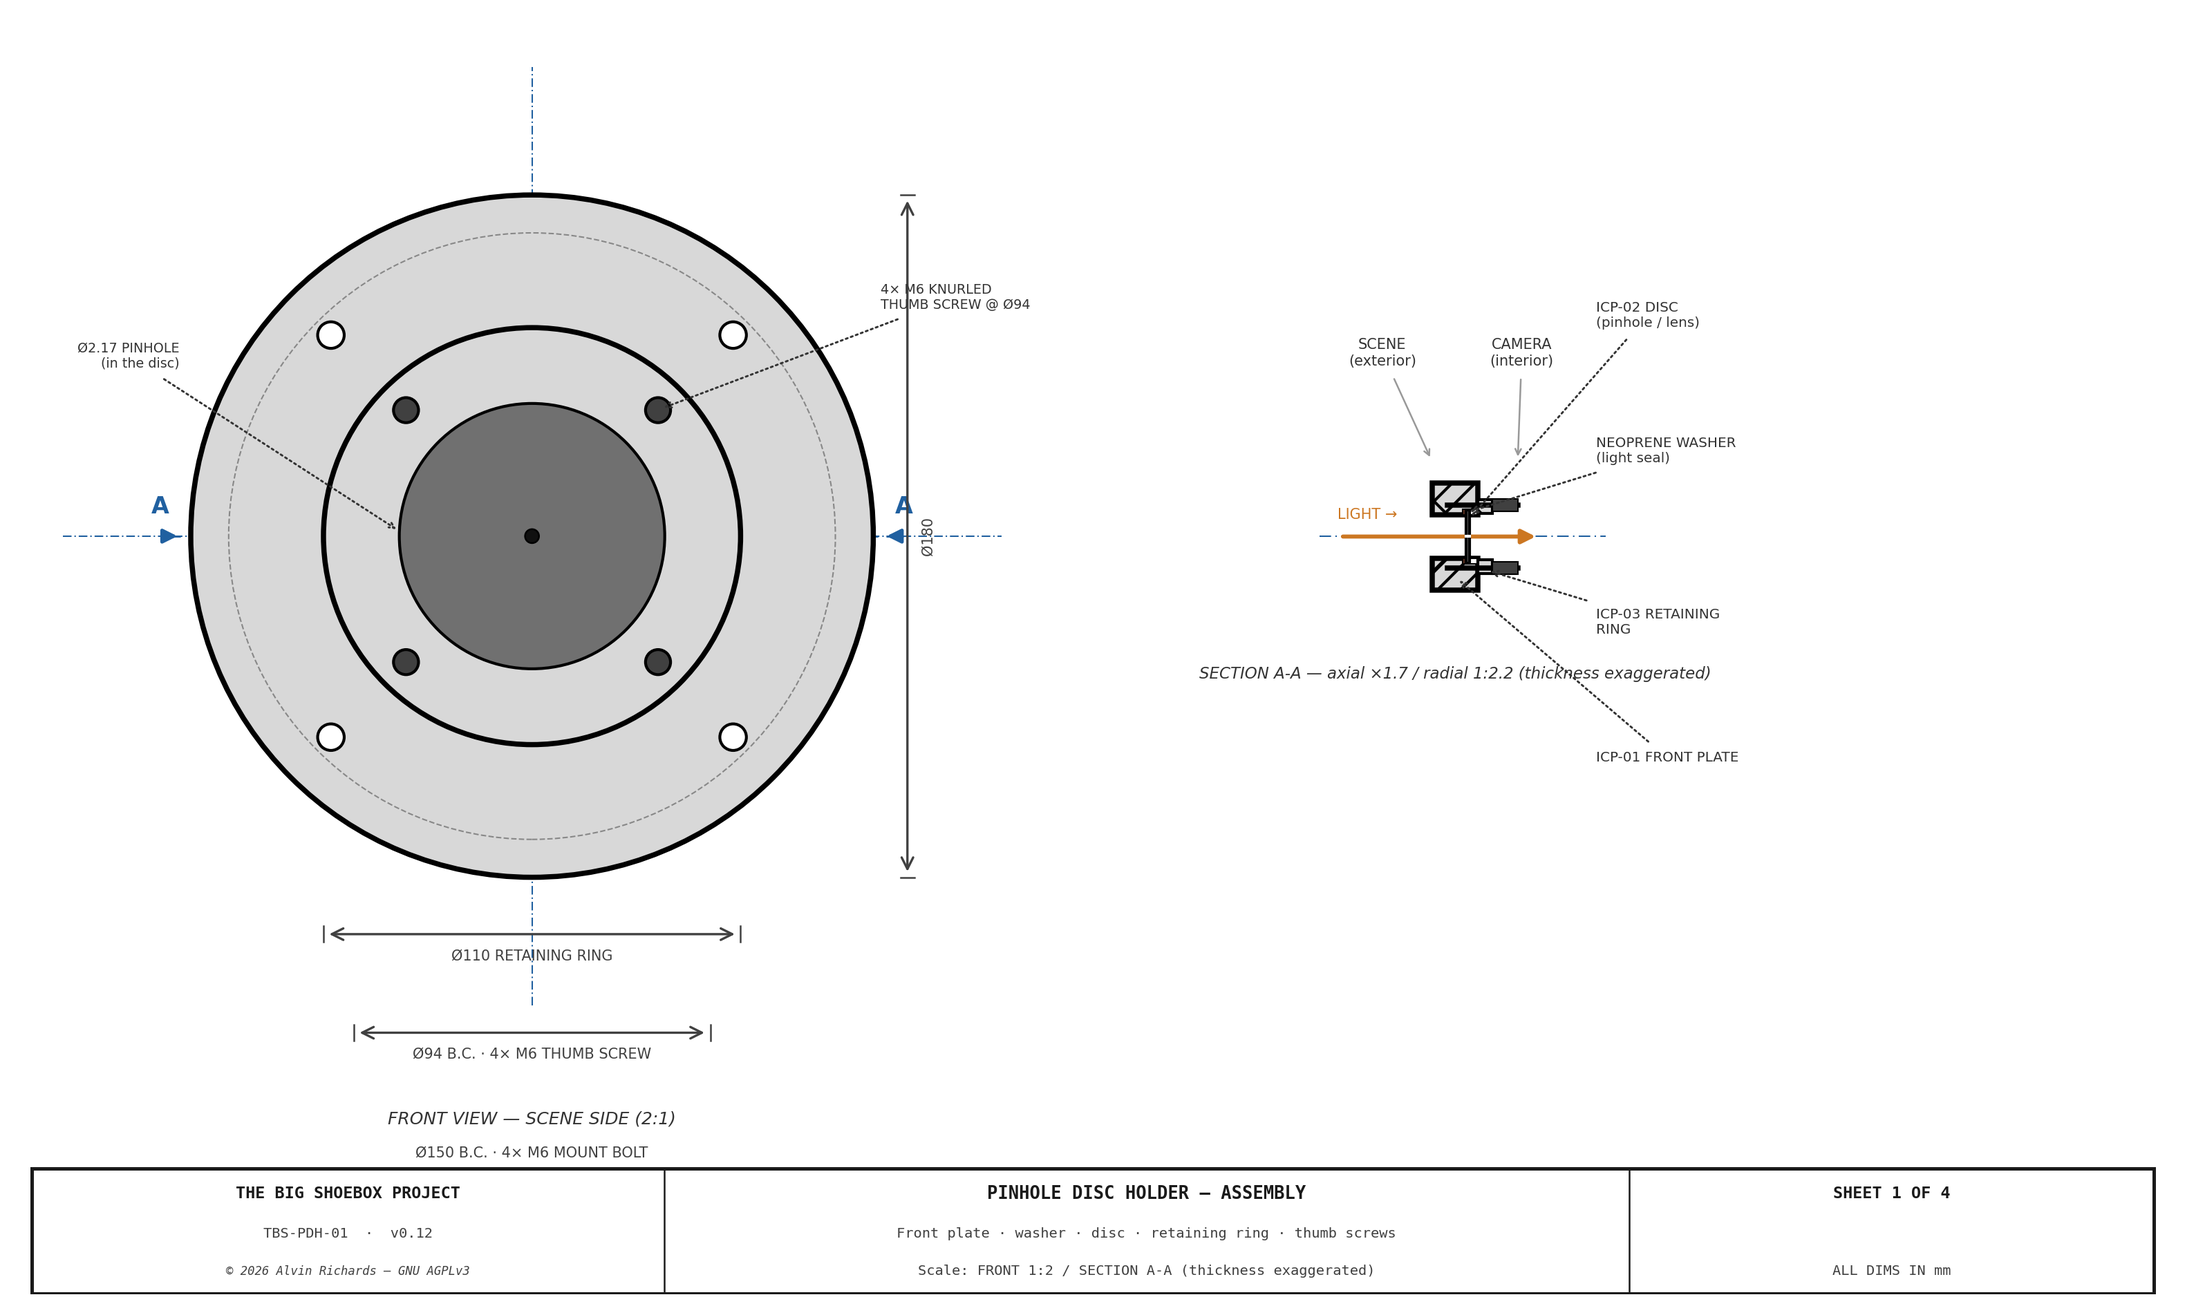
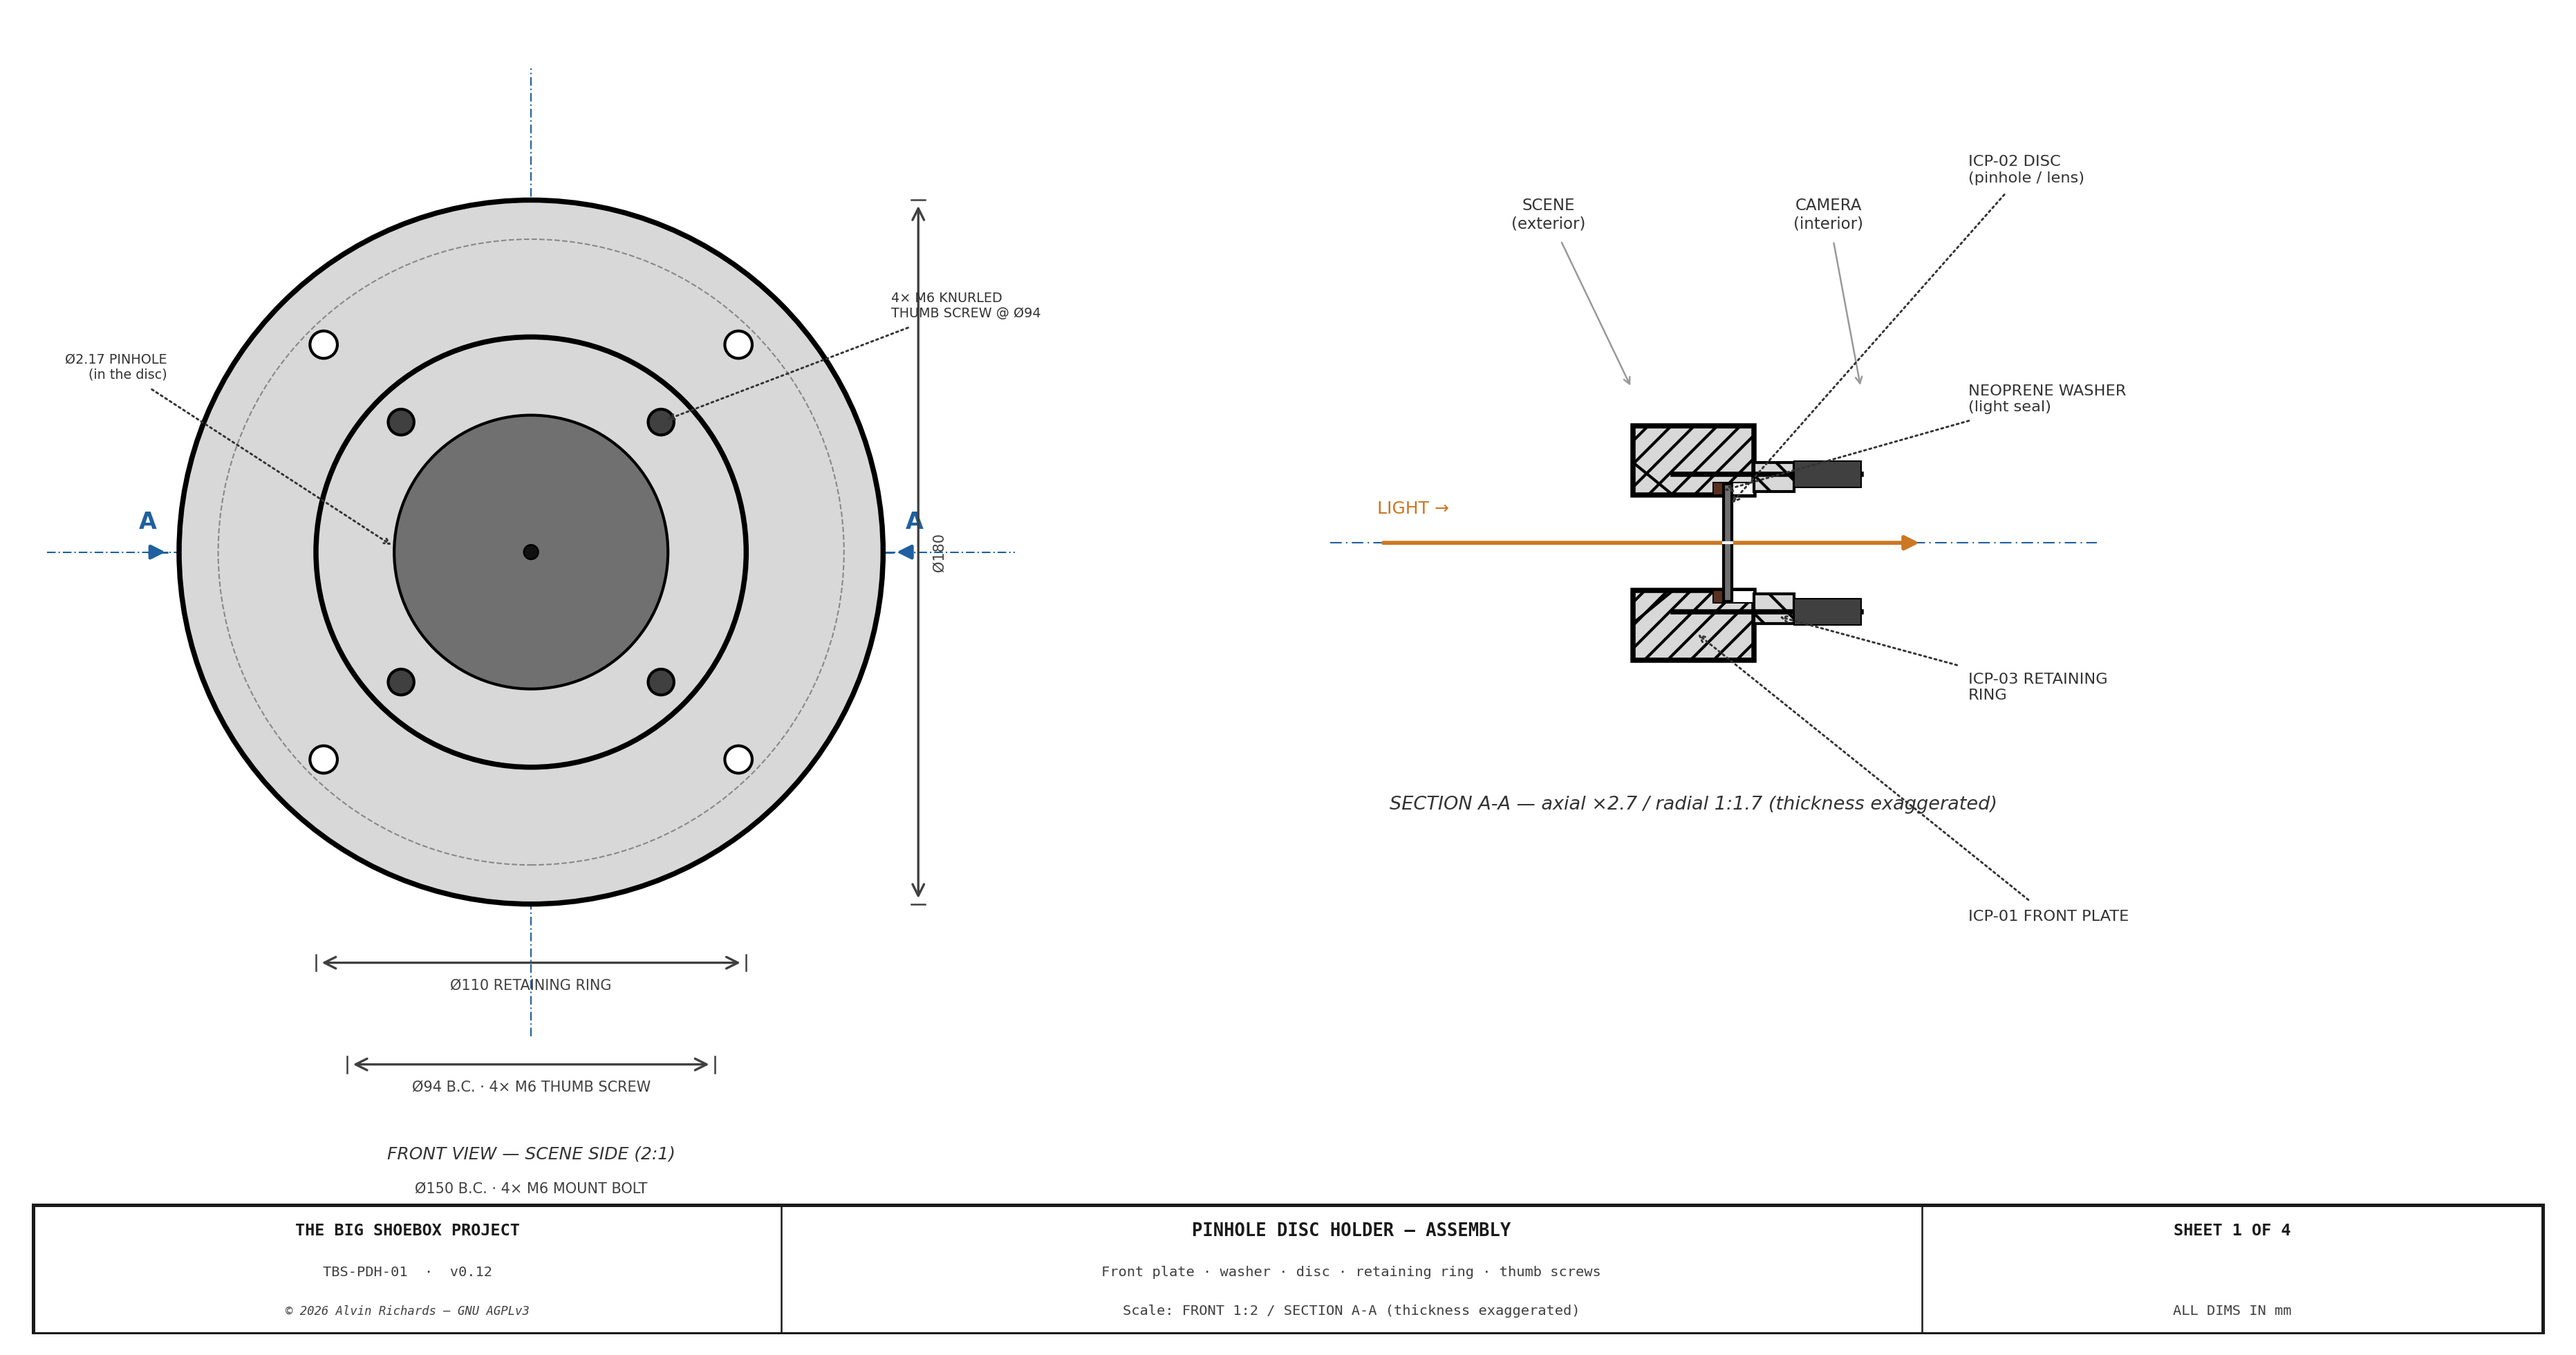
Disc holder Sheet 1: enlarge Section A-A for legibility
Widen the section panel (gridspec 1:1.35), raise the section scales
(axial x2.7 / radial 1:1.7) and bump callout/label fonts so the
plate/washer/disc/ring stack and thumb screws read clearly.

diff --git a/src/generators/generate_pinhole_disc_holder.py b/src/generators/generate_pinhole_disc_holder.py
@@ -62,7 +62,7 @@ def _thumb_screw_positions(cx, cy, pcd, s):
 # SHEET 1 — Assembly: front view + Section A-A
 # ══════════════════════════════════════════════════════════════════════════════
 def draw_sheet1():
-    fig, (axf, axs) = plt.subplots(1, 2, figsize=(11, 6.4))
+    fig, (axf, axs) = plt.subplots(1, 2, figsize=(13, 6.6), gridspec_kw={'width_ratios': [1, 1.35]})
     for ax in (axf, axs):
         ax.set_aspect('equal'); ax.axis('off')
     fig.patch.set_facecolor('white')
@@ -111,11 +111,11 @@ def draw_sheet1():
 
     # ── Section A-A (broken-out central stack) — optical axis horizontal ──
     # Thin plate: axial (thickness) scale EXAGGERATED vs radial so the disc stack reads.
-    def sx(mm): return mm * 1.7          # horizontal / axial (thickness) — exaggerated
-    def sy(mm): return mm / 2.2          # vertical / radial — compressed
-    sw, sh = 720, 720
+    def sx(mm): return mm * 2.7          # horizontal / axial (thickness) — exaggerated
+    def sy(mm): return mm / 1.7          # vertical / radial — compressed
+    sw, sh = 520, 440
     axs.set_xlim(0, sw); axs.set_ylim(0, sh)
-    ax0 = 210                            # scene face x
+    ax0 = 170                            # scene face x
     axc = ax0 + sx(PDH_PLATE_T)          # camera face x
     ry = sh / 2 + 10                     # optical-axis line y
     rad = sy(80)                         # show ±80mm of radius (broken-out; plate is Ø180)
@@ -154,25 +154,25 @@ def draw_sheet1():
     # optical-axis centre line + light-path arrow
     axs.plot([ax0 - sx(45), axc + sx(PDH_RING_T) + sx(45)], [ry, ry], color=C_CUT_BLUE, lw=LW_THIN, ls=(0, (8, 3, 1, 3)), zorder=2)
     axs.annotate('', xy=(disc_x + sx(30), ry), xytext=(ax0 - sx(38), ry), arrowprops=dict(arrowstyle='-|>', color='#CC7722', lw=1.4))
-    axs.text(ax0 - sx(38), ry + 12, 'LIGHT →', fontsize=5, color='#CC7722', ha='left')
+    axs.text(ax0 - sx(38), ry + 12, 'LIGHT →', fontsize=6, color='#CC7722', ha='left')
 
     axs.annotate('SCENE\n(exterior)', xy=(ax0, ry + rad + 14), xytext=(ax0 - 34, ry + rad + 78),
-                 fontsize=5, color='#333', ha='center', va='bottom', arrowprops=dict(arrowstyle='->', color='#999', lw=0.6))
+                 fontsize=5.5, color='#333', ha='center', va='bottom', arrowprops=dict(arrowstyle='->', color='#999', lw=0.6))
     axs.annotate('CAMERA\n(interior)', xy=(axc + sx(PDH_RING_T) + sx(10), ry + rad + 14),
-                 xytext=(axc + 30, ry + rad + 78), fontsize=5, color='#333', ha='center', va='bottom',
+                 xytext=(axc + 30, ry + rad + 78), fontsize=5.5, color='#333', ha='center', va='bottom',
                  arrowprops=dict(arrowstyle='->', color='#999', lw=0.6))
 
     # short part-name callouts on the assembly section — full fab dims are on Sheet 2
     lx = axc + sx(PDH_RING_T) + 70
     leader(axs, disc_x + sx(0.6), ry + sy(PDH_DISC_OD / 2) * 0.6, lx, ry + 150,
-           'ICP-02 DISC\n(pinhole / lens)', fs=4.8, color=C_DIM, arrow_style='->', ha='left')
+           'ICP-02 DISC\n(pinhole / lens)', fs=5.4, color=C_DIM, arrow_style='->', ha='left')
     leader(axs, seat_x + sx(PDH_WASHER_T / 2), ry + sy(PDH_WASHER_OD / 2) * 0.85, lx, ry + 58,
-           'NEOPRENE WASHER\n(light seal)', fs=4.8, color=C_DIM, arrow_style='->', ha='left')
+           'NEOPRENE WASHER\n(light seal)', fs=5.4, color=C_DIM, arrow_style='->', ha='left')
     leader(axs, axc + sx(PDH_RING_T / 2), ry - sy(PDH_RING_OD / 2) * 0.9, lx, ry - 58,
-           'ICP-03 RETAINING\nRING', fs=4.8, color=C_DIM, arrow_style='->', ha='left')
+           'ICP-03 RETAINING\nRING', fs=5.4, color=C_DIM, arrow_style='->', ha='left')
     leader(axs, ax0 + sx(PDH_PLATE_T / 2), ry - sy(60), lx, ry - 150,
-           'ICP-01 FRONT PLATE', fs=4.8, color=C_DIM, arrow_style='->', ha='left')
-    axs.text((ax0 + axc) / 2, ry - rad - 60, 'SECTION A-A — axial ×1.7 / radial 1:2.2 (thickness exaggerated)', ha='center', fontsize=5.5, style='italic', color='#333')
+           'ICP-01 FRONT PLATE', fs=5.4, color=C_DIM, arrow_style='->', ha='left')
+    axs.text((ax0 + axc) / 2, ry - rad - 60, 'SECTION A-A — axial ×2.7 / radial 1:1.7 (thickness exaggerated)', ha='center', fontsize=6.5, style='italic', color='#333')
 
     tb = fig.add_axes([0.03, 0.02, 0.94, 0.115]); tb.axis('off'); tb.set_xlim(0, 1); tb.set_ylim(0, 1)
     title_block(tb, "SHEET 1 OF 4", drawing_title="PINHOLE DISC HOLDER — ASSEMBLY",
